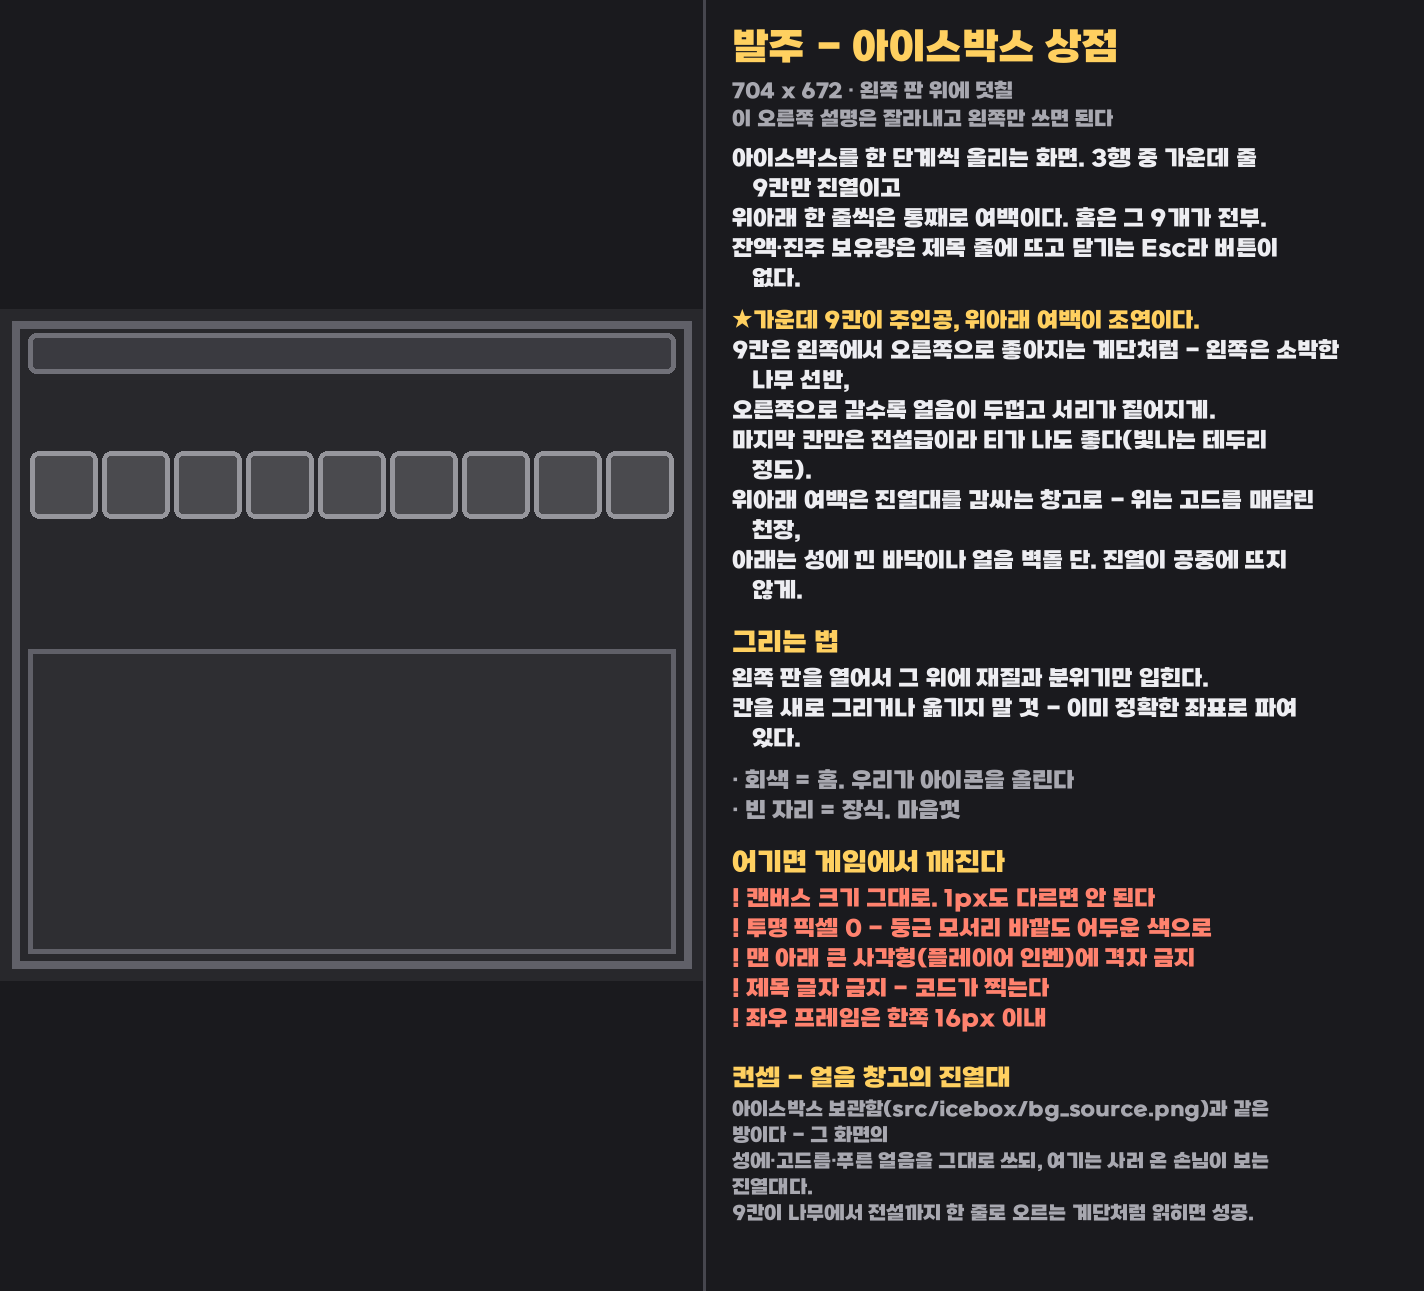
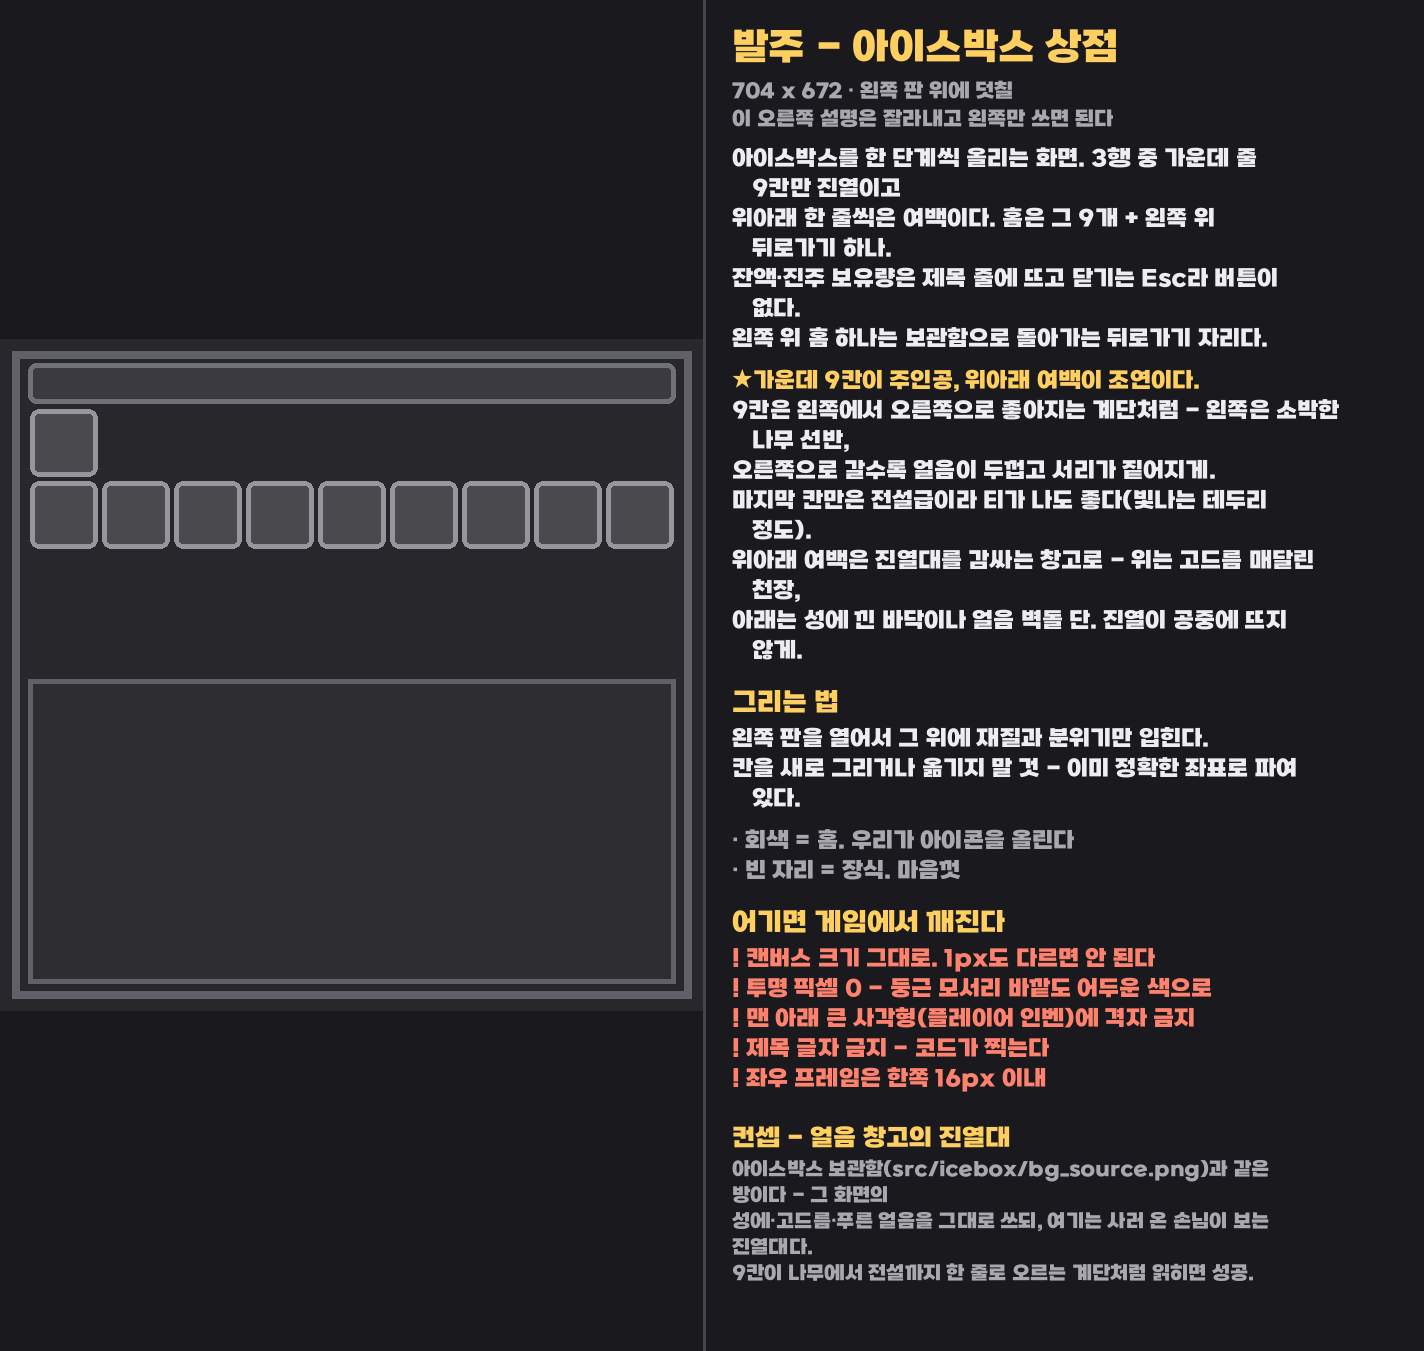
아이스박스 상점에 뒤로가기 — 왼쪽 위
보관함(0행 오른쪽 끝 상점 버튼)에서 넘어오는 동선이라 돌아갈 길이 필요했다.
발주서에도 왼쪽 위 홈 하나가 뒤로가기 자리라고 적었다.

Changed region(s): [[0.0, 0.031, 0.9579, 0.9605]]

diff --git a/gui-forge/make_order_sheets.py b/gui-forge/make_order_sheets.py
@@ -72,8 +72,9 @@ SHEETS = {
     ]),
     "iceshop": ("아이스박스 상점", [
         ("p", "아이스박스를 한 단계씩 올리는 화면. 3행 중 가운데 줄 9칸만 진열이고"),
-        ("p", "위아래 한 줄씩은 통째로 여백이다. 홈은 그 9개가 전부."),
+        ("p", "위아래 한 줄씩은 여백이다. 홈은 그 9개 + 왼쪽 위 뒤로가기 하나."),
         ("p", "잔액·진주 보유량은 제목 줄에 뜨고 닫기는 Esc라 버튼이 없다."),
+        ("p", "왼쪽 위 홈 하나는 보관함으로 돌아가는 뒤로가기 자리다."),
         ("s", ""),
         ("hi", "★가운데 9칸이 주인공, 위아래 여백이 조연이다."),
         ("p", "9칸은 왼쪽에서 오른쪽으로 좋아지는 계단처럼 - 왼쪽은 소박한 나무 선반,"),

diff --git a/gui-forge/make_page_layouts.py b/gui-forge/make_page_layouts.py
@@ -67,7 +67,7 @@ PAGES = {
     # 아이스박스 상점 — 3행 27칸. 가운데 줄(9~17)에만 티어 9개를 놓고 위아래 줄은 여백이다.
     # 2행으로 짰더니 진열이 천장에 붙어 답답했다(2026-08-08).
     # 잔액·진주 보유량은 제목 줄로 올렸고 닫기는 Esc — 그래서 홈은 9개뿐이다.
-    "iceshop": (3, {**{s: ("홈", f"{s-8}티어") for s in range(9, 18)}}, "장식"),
+    "iceshop": (3, {0: ("홈", "뒤로"), **{s: ("홈", f"{s-8}티어") for s in range(9, 18)}}, "장식"),
     "enhance": (5, {
         4: ("홈", "낚싯대 정보"),
         10: ("홈", "↓라벨"), 12: ("홈", "↓라벨"), 13: ("홈", "↓라벨"), 14: ("홈", "↓라벨"),
